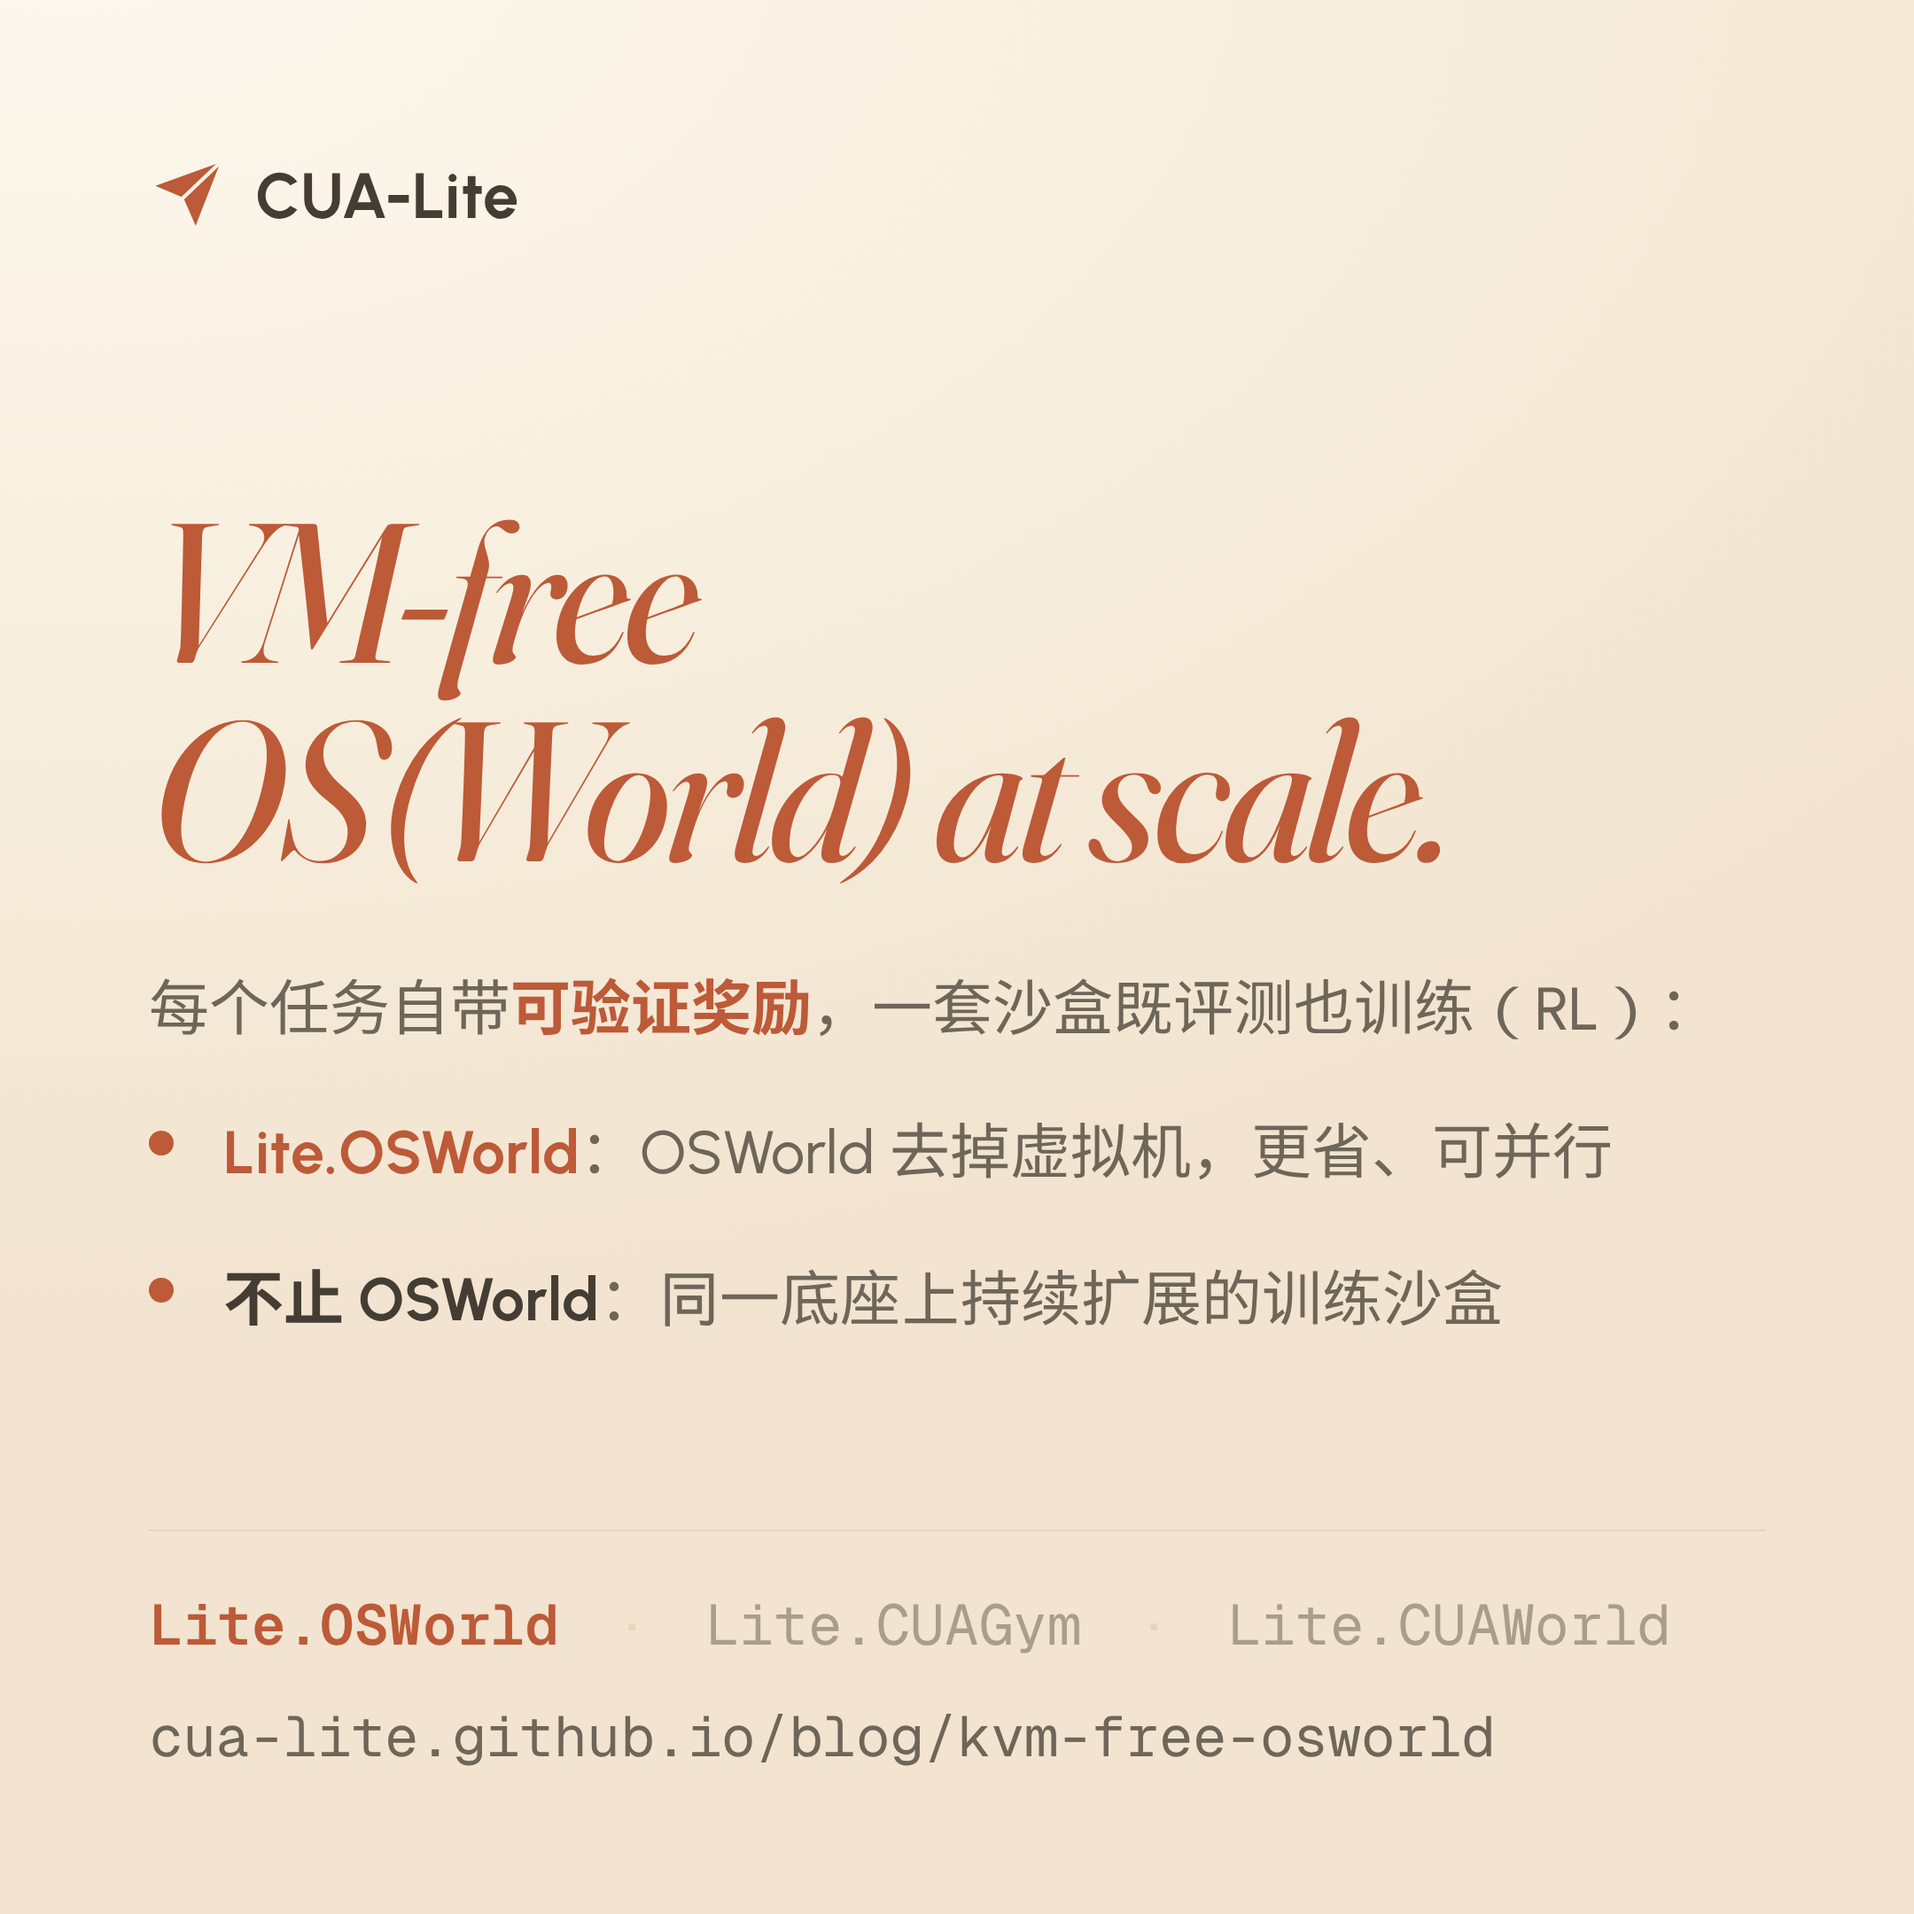
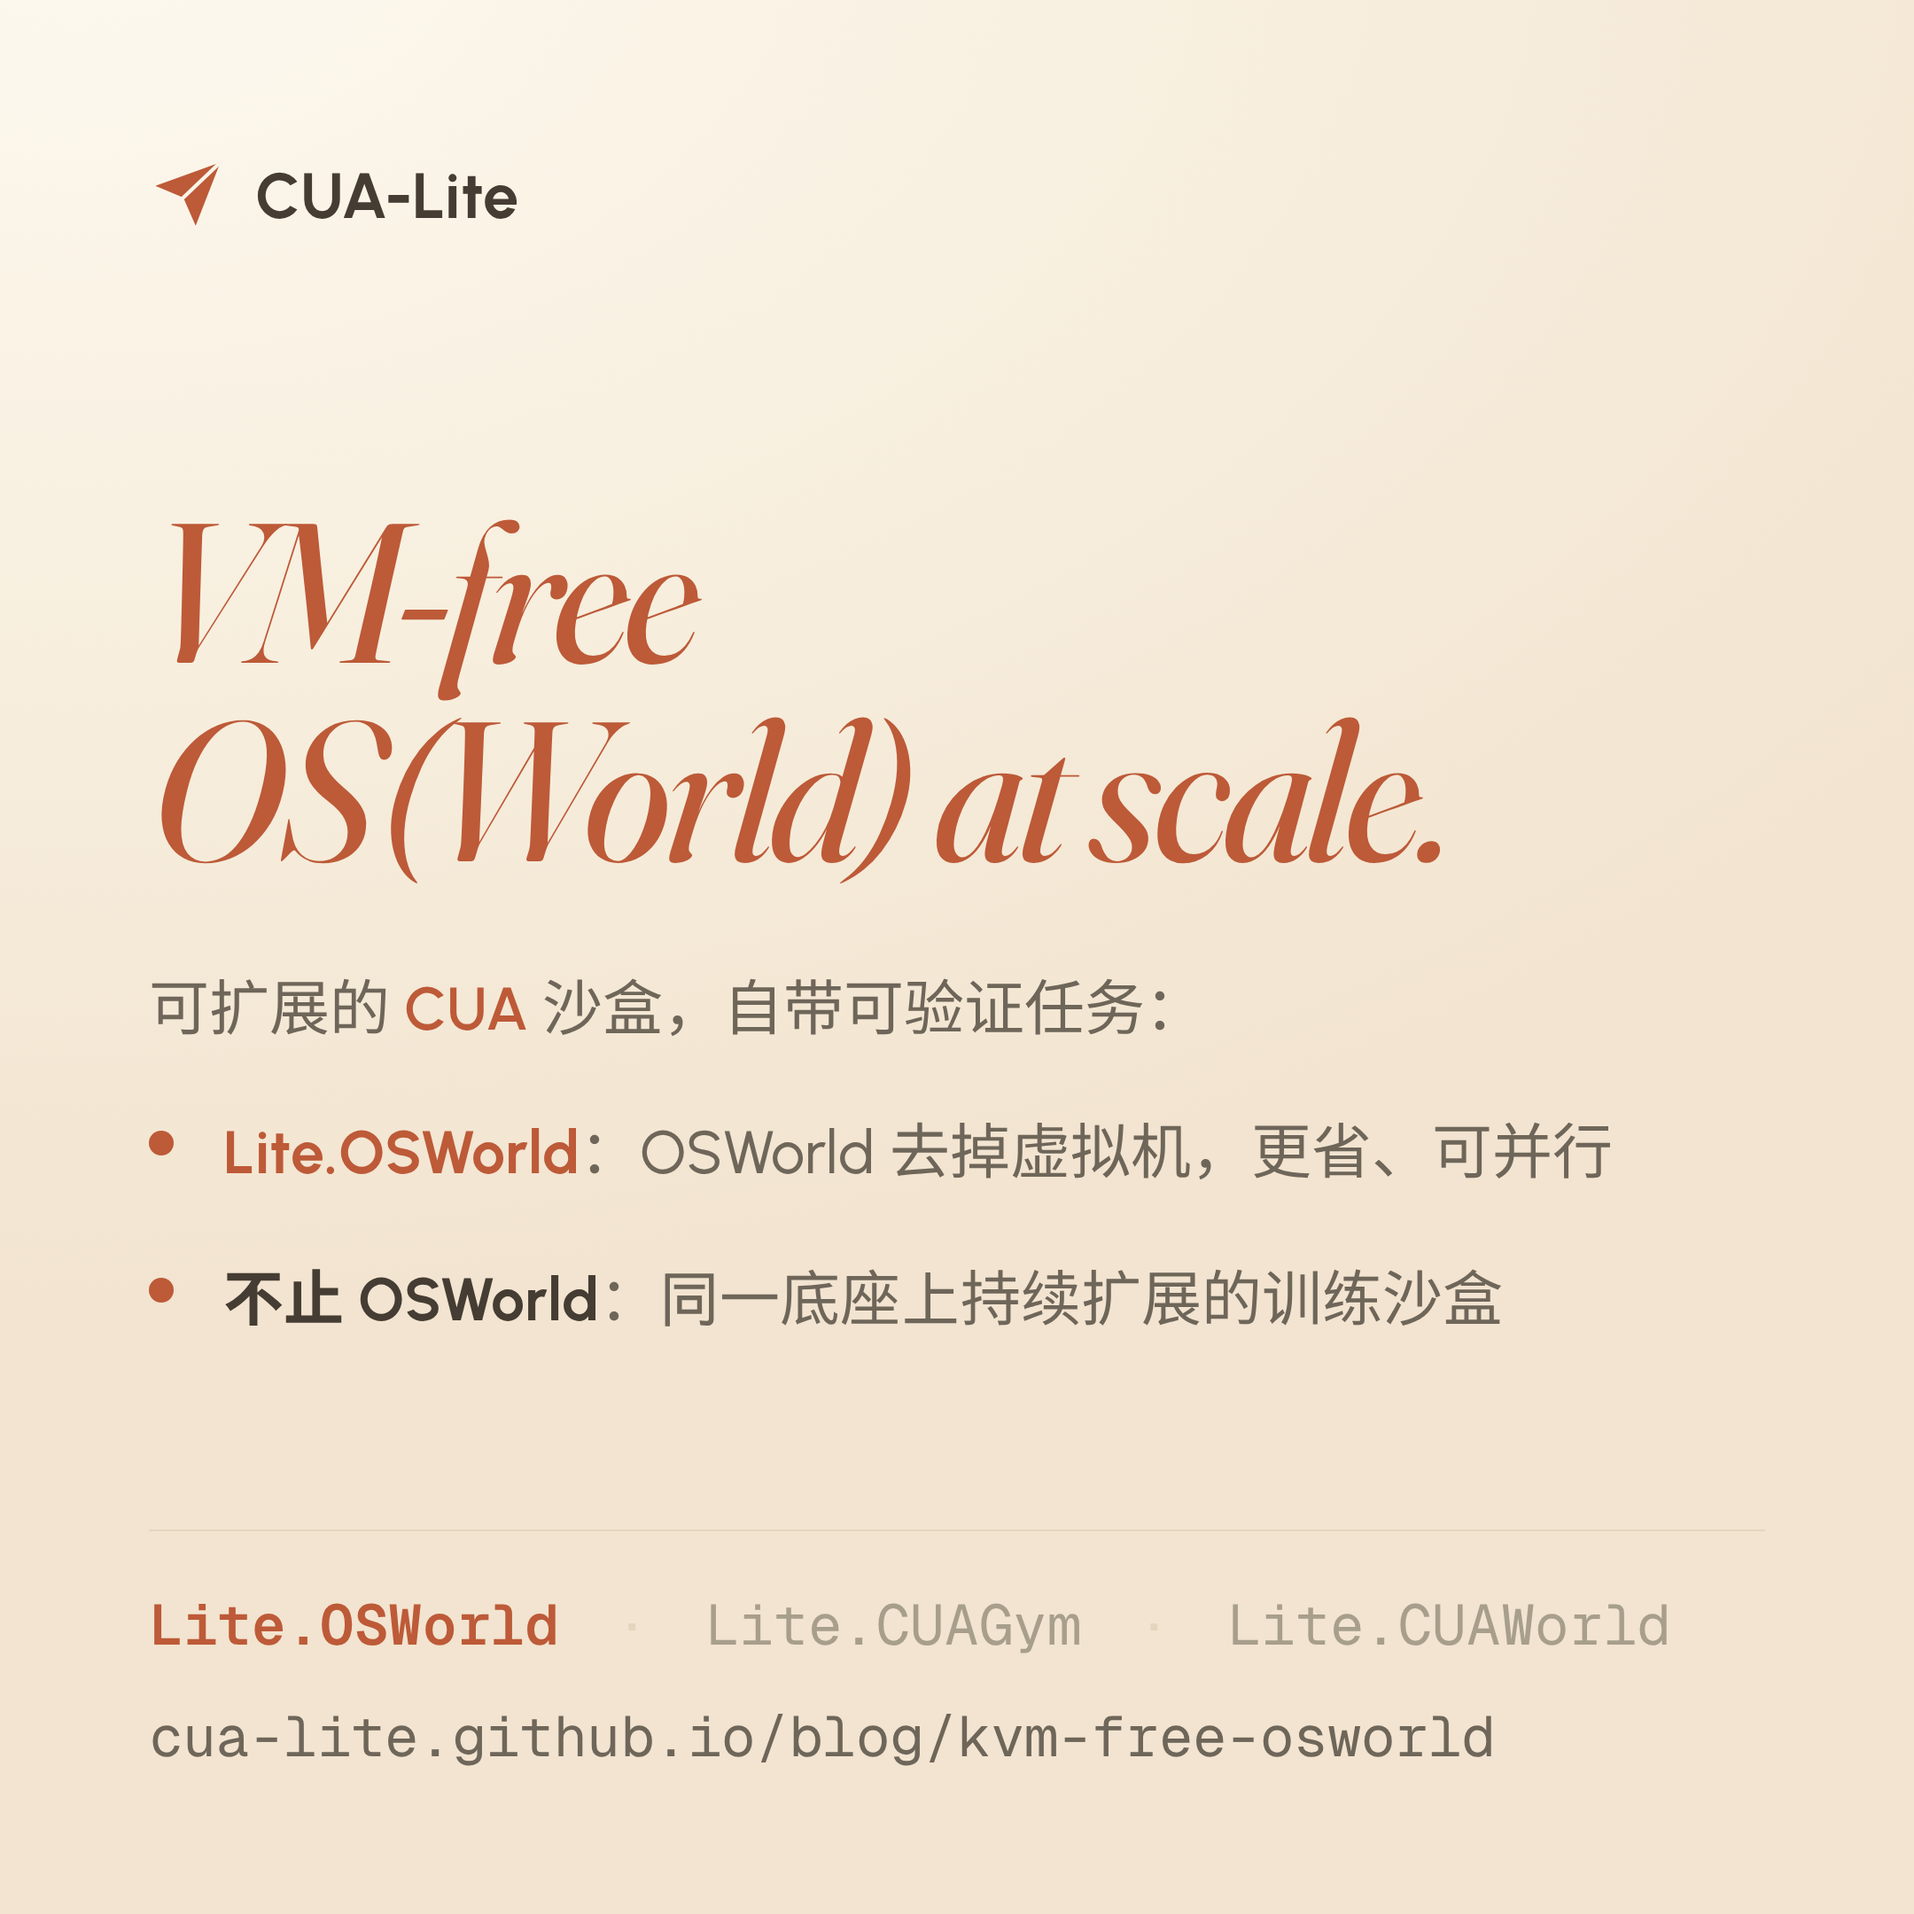
red/02: lean the opening, use the blog's own §02 wording on the covers
Copy, in the order the reader meets it:
- The opening paragraph loses its closing clause ("而规模恰恰是训练和评测的关键"),
  which only restated the first sentence — and became doubly redundant once the
  goal sentence below was added. 128 → 106 characters.
- A missing beat: the post went straight from the problem to "start with OSWorld",
  leaving "start at what?" unanswered. Now it states the goal first — a series of
  lightweight, VM-free CUA sandboxes — then names the entry point. This also plants
  "a series" early, so section three's "beyond OSWorld" is a payoff, not a swerve.
- 我们先从最熟悉的 OSWorld 做起 → 从…入手. 做起 needs an object; 从…入手 does not.
- OSWorld is now called an 评测环境 / benchmark, which is what makes section three's
  "benchmarks and trains" contrast legible.

Covers: the lead is the blog's §02 bold lead verbatim — "scalable CUA sandboxes
with verifiable tasks" / 可扩展的 CUA 沙盒，自带可验证任务. The line it replaces was
mine, and wrong twice over: the blog says verifiable *tasks* (4 occurrences) not
rewards, and my version crowded CUA out of the first line entirely.

Title 沙盒生态 → 沙盒环境, so the closing "希望长成…生态" stays an aspiration instead
of contradicting a title that already claimed it. English titles already read
"scalable CUA sandboxes", so the two languages now agree.

Footer points at the blog post rather than the site root, matching what the four
covers have always watermarked.

Claude-Session: https://claude.ai/code/session_019N9QE7hrsknz9zUaYU3jB7

Changed region(s): [[0.062, 0.4963, 0.7755, 0.5583], [0.8065, 0.5273, 0.8375, 0.5583]]

diff --git a/posts/red/02/make_cover.py b/posts/red/02/make_cover.py
@@ -77,7 +77,7 @@ h1{font-family:'Fraunces';font-style:italic;color:var(--accent);
 
 BRAND = '<div class="brand"><span class="plane"></span><span class="name">CUA-Lite</span></div>'
 H1 = '<h1>VM-free<br>OS(World) at scale.</h1>'
-LEAD = '<p class="lead"><span class="lc">Verifiable rewards</span>, so one sandbox benchmarks and trains:</p>'
+LEAD = '<p class="lead">Scalable <span class="lc">CUA</span> sandboxes with verifiable tasks:</p>'
 CLAIMS = """<div class="claims">
   <p class="claim"><b class="lc">Lite.OSWorld</b>: OSWorld minus the VM, leaner &amp; parallel</p>
   <p class="claim"><b>Beyond OSWorld</b>: a growing family of training sandboxes</p>
@@ -110,7 +110,7 @@ _ZH_CSS = """
 """
 HEAD_ZH = HEAD.replace("</style>", _ZH_CSS + "</style>")
 
-LEAD_ZH = '<p class="lead">每个任务自带<span class="lc">可验证奖励</span>，一套沙盒既评测也训练（RL）：</p>'
+LEAD_ZH = '<p class="lead">可扩展的 <span class="lc">CUA</span> 沙盒，自带可验证任务：</p>'
 CLAIMS_ZH = """<div class="claims">
   <p class="claim"><b class="lc">Lite.OSWorld</b>：OSWorld 去掉虚拟机，更省、可并行</p>
   <p class="claim"><b>不止 OSWorld</b>：同一底座上持续扩展的训练沙盒</p>
